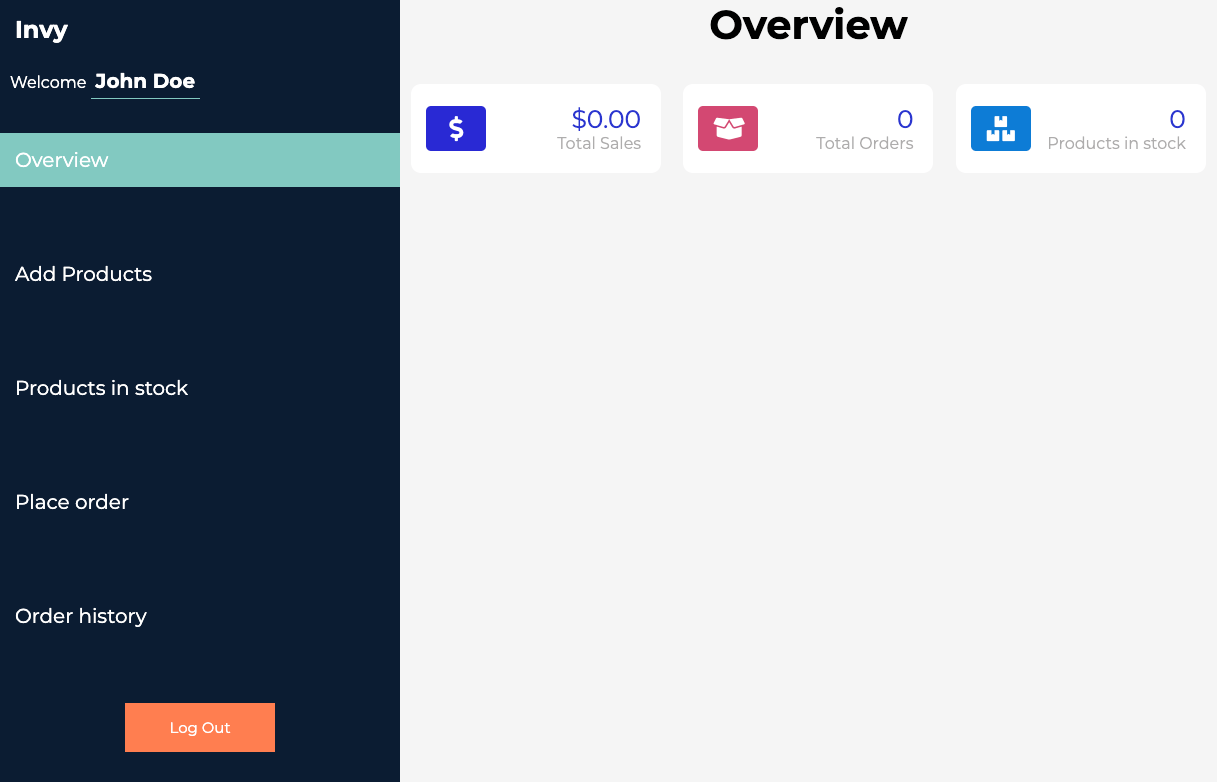
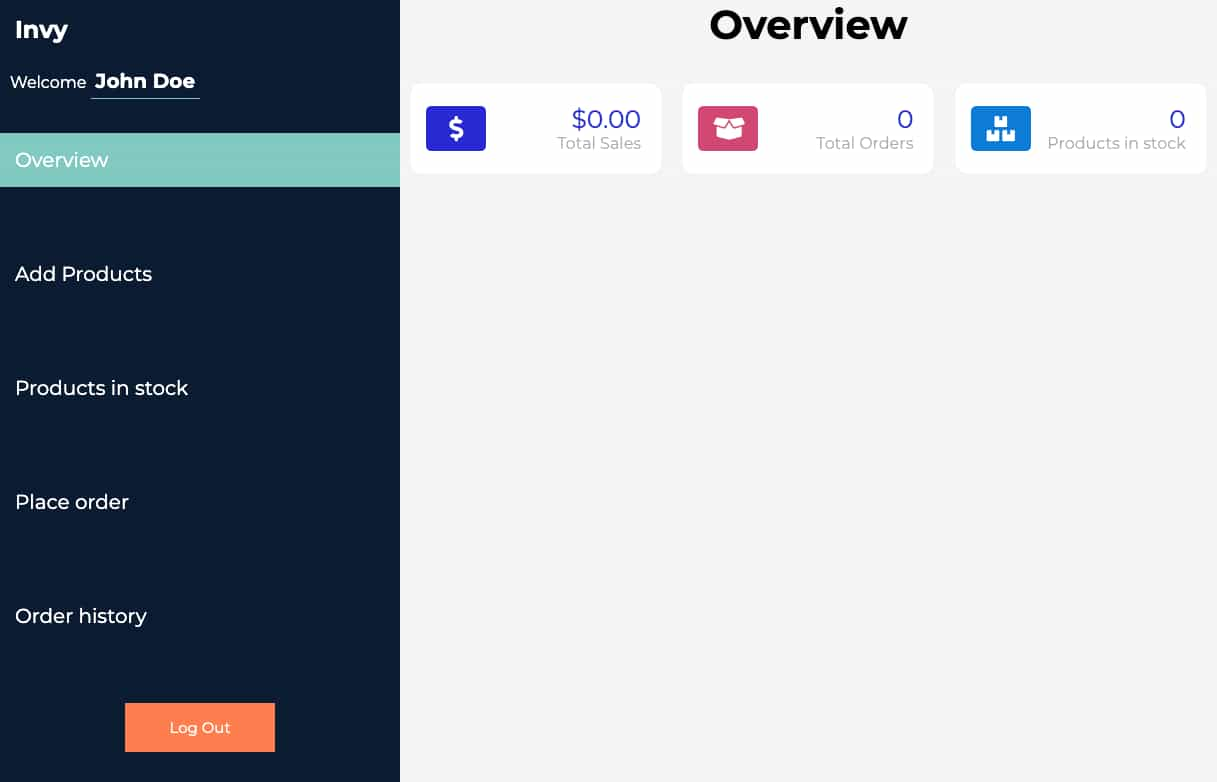
resized images

diff --git a/index.html b/index.html
@@ -11,7 +11,7 @@
     <meta http-equiv="X-UA-Compatible" content="ie=edge" />
     <meta
       name="keywords"
-      content="FrontEnd Developer , Full-Stack Developer, Javascript ,React, Node, Express,Web Development, aneudya4"
+      content="FrontEnd Developer , Full-Stack Developer, Javascript ,React, Node, Express,Web Development, @AneudyA4"
     />
     <meta charset="utf-8" />
     <meta property="og:url" content="https://aneudyadames.dev" />
@@ -24,9 +24,10 @@
       property="og:description"
       content="Im Aneudy Adames, a Full-Stack Developer from New York."
     />
+    <meta name="twitter:site" content="@AneudyA4" />
     <meta property="og:type" content="website" />
     <meta name="twitter:card" content="summary" />
-    <meta name="twitter:creator" content="@aneudya4" />
+    <meta name="twitter:creator" content="@AneudyA4" />
     <meta name="twitter:title" content="" />
     <meta
       name="twitter:description"
@@ -152,7 +153,12 @@
         <h3>Invy</h3>
         <div class="project">
           <div class="img-container">
-            <img src="./images/invy.webp" alt="Invy app" />
+            <img
+              width="450"
+              height="auto"
+              src="./images/invy.webp"
+              alt="Invy app"
+            />
           </div>
           <div class="project-details">
             <p>
@@ -198,7 +204,12 @@
             <p>ReactJS-Hooks-CSS3</p>
           </div>
           <div class="img-container">
-            <img src="./images/movie-app.webp" alt="movie-app" />
+            <img
+              width="450px"
+              height="auto"
+              src="./images/movie-app.webp"
+              alt="movie-app"
+            />
           </div>
           <div class="project-links">
             <a
@@ -229,7 +240,12 @@
         <h3>Noteful</h3>
         <div class="project">
           <div class="img-container">
-            <img src="./images/noteful-app.webp" alt="noteful app" />
+            <img
+              width="450px"
+              height="auto"
+              src="./images/noteful-app.webp"
+              alt="noteful app"
+            />
           </div>
           <div class="project-details">
             <p>
@@ -279,7 +295,12 @@
             <p>HTML5-CSS3-JQuery-TypeScript-Webpack</p>
           </div>
           <div class="img-container">
-            <img src="./images/artist-pedia.webp" alt="artistPedia" />
+            <img
+              width="450px"
+              height="auto"
+              src="./images/artist-pedia.webp"
+              alt="artistPedia"
+            />
           </div>
           <div class="project-links">
             <a
@@ -310,7 +331,12 @@
         <h3>Quiz App</h3>
         <div class="project">
           <div class="img-container">
-            <img src="./images/quiz-app.webp" alt="quiz-app" />
+            <img
+              width="450px"
+              height="auto"
+              src="./images/quiz-app.webp"
+              alt="quiz-app"
+            />
           </div>
           <div class="project-details">
             <p>
